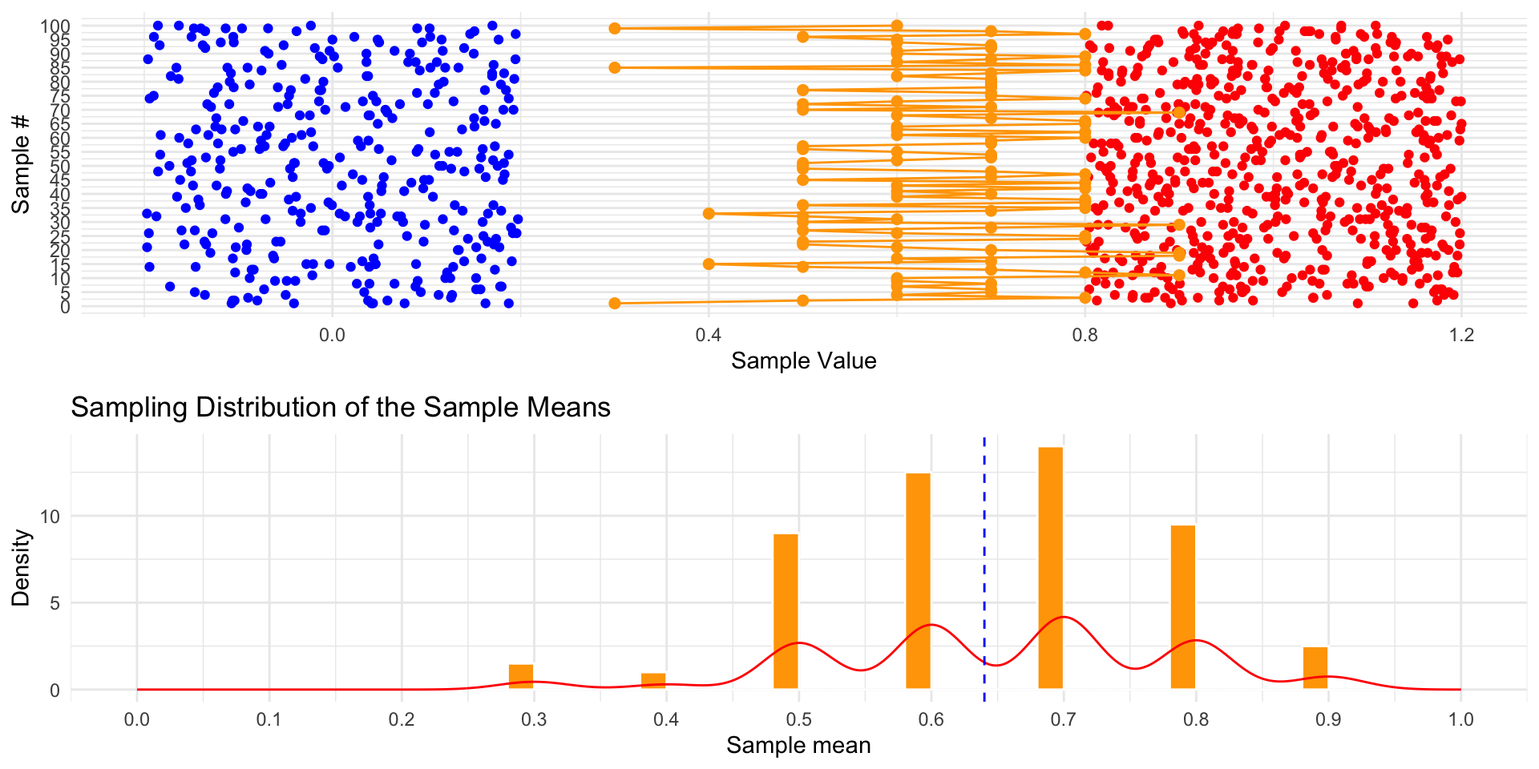
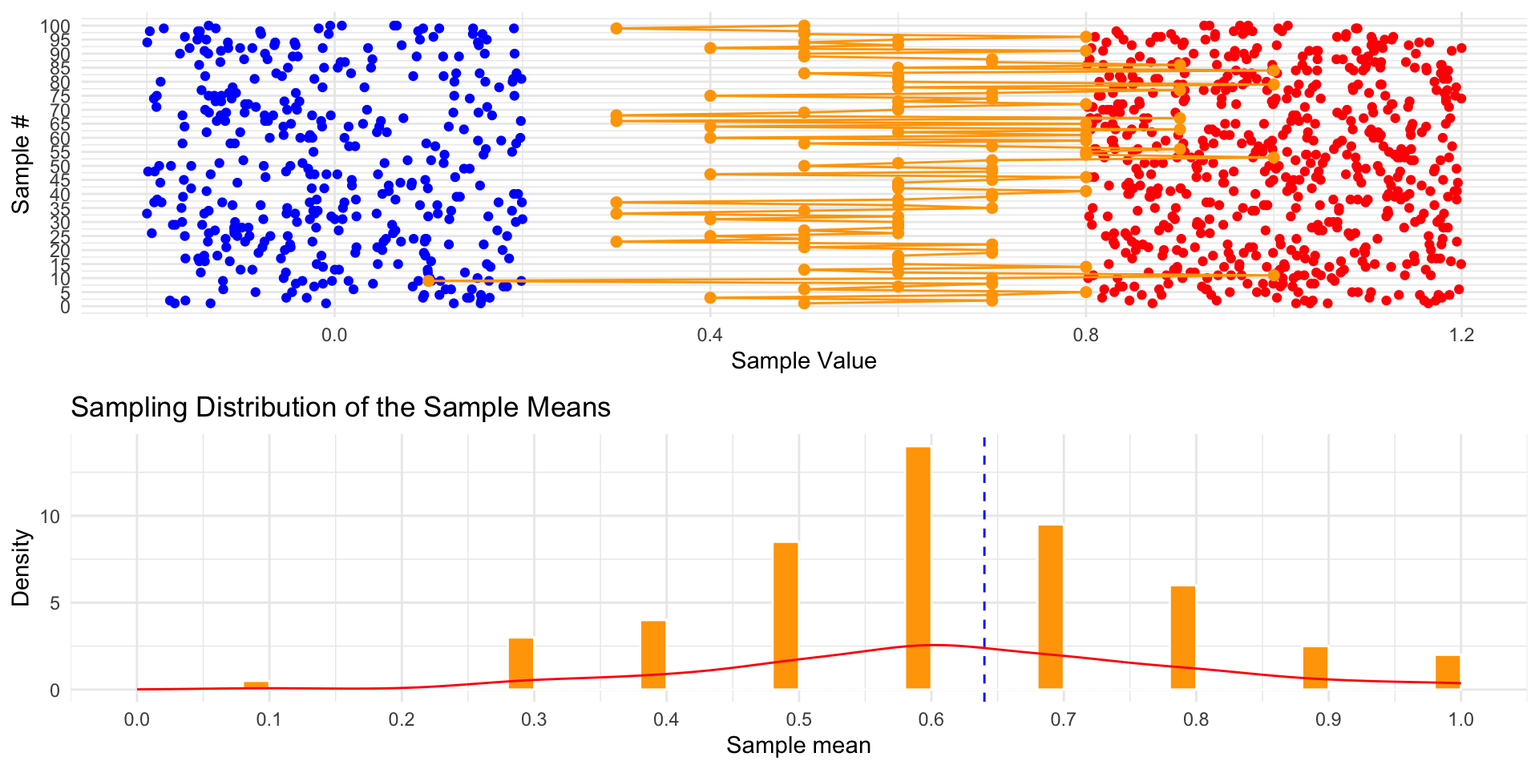
deploy: 5dc15942a45cb947c9da1f8479b1caabebc3e213

diff --git a/datasci-simplified/central-limit-theorem/index.html b/datasci-simplified/central-limit-theorem/index.html
@@ -98,8 +98,6 @@
   <link href="index_files/libs/revealjs/plugin/quarto-line-highlight/line-highlight.css" rel="stylesheet">
   <link href="index_files/libs/revealjs/plugin/reveal-menu/menu.css" rel="stylesheet">
   <link href="index_files/libs/revealjs/plugin/reveal-menu/quarto-menu.css" rel="stylesheet">
-  <link href="index_files/libs/revealjs/plugin/reveal-chalkboard/font-awesome/css/all.css" rel="stylesheet">
-  <link href="index_files/libs/revealjs/plugin/reveal-chalkboard/style.css" rel="stylesheet">
   <link href="index_files/libs/revealjs/plugin/quarto-support/footer.css" rel="stylesheet">
   <style type="text/css">
 
@@ -407,6 +405,10 @@
 <p>Imagine that you have a bag filled with <span style="color: red">red</span> and <span style="color: blue">blue</span> marbles.</p>
 <p>How would you guess the proportion of <span style="color: red">red</span> ones without going through every marble?</p>
 </section>
+<section id="central-limit-theorem" class="slide level2">
+<h2>Central Limit Theorem</h2>
+<p>As the sample size increases, typically when it’s greater than 30, the distribution of the sample means approaches a normal distribution.</p>
+</section>
 <section id="simulating-marble-population" class="slide level2">
 <h2>Simulating Marble Population</h2>
 <div class="cell">
@@ -421,7 +423,7 @@
 <span id="cb1-9"><a href="#cb1-9"></a>prob_red <span class="ot">=</span> <span class="fl">0.64</span></span>
 <span id="cb1-10"><a href="#cb1-10"></a>num_marbles <span class="ot">=</span> <span class="dv">1000</span></span>
 <span id="cb1-11"><a href="#cb1-11"></a></span>
-<span id="cb1-12"><a href="#cb1-12"></a><span class="fu">set.seed</span>(<span class="dv">42</span>) <span class="co"># reproducibility</span></span>
+<span id="cb1-12"><a href="#cb1-12"></a><span class="fu">set.seed</span>(<span class="dv">42</span>) </span>
 <span id="cb1-13"><a href="#cb1-13"></a>marbles <span class="ot">=</span> <span class="fu">sample</span>(<span class="fu">c</span>(red_marble, blue_marble), </span>
 <span id="cb1-14"><a href="#cb1-14"></a>                 <span class="at">size =</span> num_marbles, </span>
 <span id="cb1-15"><a href="#cb1-15"></a>                 <span class="at">replace =</span> <span class="cn">TRUE</span>, </span>
@@ -431,10 +433,11 @@
 <section id="taking-one-sample" class="slide level2">
 <h2>Taking One Sample</h2>
 <div class="cell">
-<div class="sourceCode cell-code" id="cb2"><pre class="sourceCode numberSource r number-lines code-with-copy"><code class="sourceCode r"><span id="cb2-1"><a href="#cb2-1"></a>one_sample <span class="ot">=</span> <span class="fu">get_samples</span>(marbles, <span class="at">sample_size =</span> <span class="dv">10</span>, <span class="at">number_of_samples =</span> <span class="dv">1</span>, <span class="at">func =</span> is_red)</span>
-<span id="cb2-2"><a href="#cb2-2"></a></span>
-<span id="cb2-3"><a href="#cb2-3"></a><span class="fu">kable</span>(one_sample, <span class="st">"html"</span>) <span class="sc">|&gt;</span></span>
-<span id="cb2-4"><a href="#cb2-4"></a>  <span class="fu">kable_styling</span>(<span class="at">font_size =</span> <span class="dv">20</span>)</span></code><button title="Copy to Clipboard" class="code-copy-button"><i class="bi"></i></button></pre></div>
+<div class="sourceCode cell-code" id="cb2"><pre class="sourceCode numberSource r number-lines code-with-copy"><code class="sourceCode r"><span id="cb2-1"><a href="#cb2-1"></a><span class="fu">set.seed</span>(<span class="dv">42</span>)</span>
+<span id="cb2-2"><a href="#cb2-2"></a>one_sample <span class="ot">=</span> <span class="fu">get_samples</span>(marbles, <span class="at">sample_size =</span> <span class="dv">10</span>, <span class="at">number_of_samples =</span> <span class="dv">1</span>, <span class="at">func =</span> is_red)</span>
+<span id="cb2-3"><a href="#cb2-3"></a></span>
+<span id="cb2-4"><a href="#cb2-4"></a><span class="fu">kable</span>(one_sample, <span class="st">"html"</span>) <span class="sc">|&gt;</span></span>
+<span id="cb2-5"><a href="#cb2-5"></a>  <span class="fu">kable_styling</span>(<span class="at">font_size =</span> <span class="dv">20</span>)</span></code><button title="Copy to Clipboard" class="code-copy-button"><i class="bi"></i></button></pre></div>
 <div class="cell-output-display">
 <table class="table" data-quarto-postprocess="true" style="font-size: 20px; margin-left: auto; margin-right: auto;">
 <thead>
@@ -446,6 +449,14 @@
 <tbody>
 <tr class="odd">
 <td style="text-align: right;">1</td>
+<td style="text-align: right;">0</td>
+</tr>
+<tr class="even">
+<td style="text-align: right;">1</td>
+<td style="text-align: right;">1</td>
+</tr>
+<tr class="odd">
+<td style="text-align: right;">1</td>
 <td style="text-align: right;">1</td>
 </tr>
 <tr class="even">
@@ -471,14 +482,6 @@
 <tr class="odd">
 <td style="text-align: right;">1</td>
 <td style="text-align: right;">0</td>
-</tr>
-<tr class="even">
-<td style="text-align: right;">1</td>
-<td style="text-align: right;">0</td>
-</tr>
-<tr class="odd">
-<td style="text-align: right;">1</td>
-<td style="text-align: right;">1</td>
 </tr>
 <tr class="even">
 <td style="text-align: right;">1</td>
@@ -506,14 +509,15 @@
 <div class="sourceCode cell-code" id="cb5"><pre class="sourceCode numberSource r number-lines code-with-copy"><code class="sourceCode r"><span id="cb5-1"><a href="#cb5-1"></a>size <span class="ot">=</span> <span class="dv">10</span></span>
 <span id="cb5-2"><a href="#cb5-2"></a>n <span class="ot">=</span> <span class="dv">100</span></span>
 <span id="cb5-3"><a href="#cb5-3"></a></span>
-<span id="cb5-4"><a href="#cb5-4"></a>samples <span class="ot">=</span> <span class="fu">get_samples</span>(marbles, <span class="at">sample_size =</span> size, <span class="at">number_of_samples =</span> n, <span class="at">func =</span> is_red)</span>
-<span id="cb5-5"><a href="#cb5-5"></a></span>
-<span id="cb5-6"><a href="#cb5-6"></a>sample_proportions <span class="ot">=</span> samples <span class="sc">|&gt;</span></span>
-<span id="cb5-7"><a href="#cb5-7"></a>  <span class="fu">group_by</span>(sample_number) <span class="sc">|&gt;</span></span>
-<span id="cb5-8"><a href="#cb5-8"></a>  <span class="fu">summarise</span>(<span class="at">proportion =</span> <span class="fu">mean</span>(sample_value))</span>
-<span id="cb5-9"><a href="#cb5-9"></a></span>
-<span id="cb5-10"><a href="#cb5-10"></a><span class="fu">kable</span>(<span class="fu">head</span>(sample_proportions, <span class="dv">5</span>), <span class="st">"html"</span>) <span class="sc">|&gt;</span></span>
-<span id="cb5-11"><a href="#cb5-11"></a>  <span class="fu">kable_styling</span>(<span class="at">font_size =</span> <span class="dv">20</span>)</span></code><button title="Copy to Clipboard" class="code-copy-button"><i class="bi"></i></button></pre></div>
+<span id="cb5-4"><a href="#cb5-4"></a><span class="fu">set.seed</span>(<span class="dv">42</span>)</span>
+<span id="cb5-5"><a href="#cb5-5"></a>samples <span class="ot">=</span> <span class="fu">get_samples</span>(marbles, <span class="at">sample_size =</span> size, <span class="at">number_of_samples =</span> n, <span class="at">func =</span> is_red)</span>
+<span id="cb5-6"><a href="#cb5-6"></a></span>
+<span id="cb5-7"><a href="#cb5-7"></a>sample_proportions <span class="ot">=</span> samples <span class="sc">|&gt;</span></span>
+<span id="cb5-8"><a href="#cb5-8"></a>  <span class="fu">group_by</span>(sample_number) <span class="sc">|&gt;</span></span>
+<span id="cb5-9"><a href="#cb5-9"></a>  <span class="fu">summarise</span>(<span class="at">proportion =</span> <span class="fu">mean</span>(sample_value))</span>
+<span id="cb5-10"><a href="#cb5-10"></a></span>
+<span id="cb5-11"><a href="#cb5-11"></a><span class="fu">kable</span>(<span class="fu">head</span>(sample_proportions, <span class="dv">5</span>), <span class="st">"html"</span>) <span class="sc">|&gt;</span></span>
+<span id="cb5-12"><a href="#cb5-12"></a>  <span class="fu">kable_styling</span>(<span class="at">font_size =</span> <span class="dv">20</span>)</span></code><button title="Copy to Clipboard" class="code-copy-button"><i class="bi"></i></button></pre></div>
 <div class="cell-output-display">
 <table class="table" data-quarto-postprocess="true" style="font-size: 20px; margin-left: auto; margin-right: auto;">
 <thead>
@@ -525,23 +529,23 @@
 <tbody>
 <tr class="odd">
 <td style="text-align: right;">1</td>
-<td style="text-align: right;">0.3</td>
+<td style="text-align: right;">0.5</td>
 </tr>
 <tr class="even">
 <td style="text-align: right;">2</td>
-<td style="text-align: right;">0.5</td>
+<td style="text-align: right;">0.7</td>
 </tr>
 <tr class="odd">
 <td style="text-align: right;">3</td>
-<td style="text-align: right;">0.8</td>
+<td style="text-align: right;">0.4</td>
 </tr>
 <tr class="even">
 <td style="text-align: right;">4</td>
-<td style="text-align: right;">0.6</td>
+<td style="text-align: right;">0.7</td>
 </tr>
 <tr class="odd">
 <td style="text-align: right;">5</td>
-<td style="text-align: right;">0.7</td>
+<td style="text-align: right;">0.8</td>
 </tr>
 </tbody>
 </table>
@@ -564,7 +568,7 @@
 <tbody>
 <tr class="odd">
 <td style="text-align: right;">10</td>
-<td style="text-align: right;">0.1337116</td>
+<td style="text-align: right;">0.174298</td>
 </tr>
 </tbody>
 </table>
@@ -586,17 +590,18 @@
 <h2>Increasing Sample Size to 20</h2>
 <div class="cell">
 <div class="sourceCode cell-code" id="cb8"><pre class="sourceCode numberSource r number-lines code-with-copy"><code class="sourceCode r"><span id="cb8-1"><a href="#cb8-1"></a>size <span class="ot">=</span> <span class="dv">20</span></span>
-<span id="cb8-2"><a href="#cb8-2"></a>samples <span class="ot">=</span> <span class="fu">get_samples</span>(marbles, <span class="at">sample_size =</span> size, <span class="at">number_of_samples =</span> n, <span class="at">func =</span> is_red)</span>
-<span id="cb8-3"><a href="#cb8-3"></a></span>
-<span id="cb8-4"><a href="#cb8-4"></a>sample_proportions <span class="ot">=</span> samples <span class="sc">|&gt;</span></span>
-<span id="cb8-5"><a href="#cb8-5"></a>  <span class="fu">group_by</span>(sample_number) <span class="sc">|&gt;</span></span>
-<span id="cb8-6"><a href="#cb8-6"></a>  <span class="fu">summarise</span>(<span class="at">proportion =</span> <span class="fu">mean</span>(sample_value))</span>
-<span id="cb8-7"><a href="#cb8-7"></a></span>
-<span id="cb8-8"><a href="#cb8-8"></a>standard_errors <span class="ot">=</span> standard_errors <span class="sc">|&gt;</span></span>
-<span id="cb8-9"><a href="#cb8-9"></a>  <span class="fu">add_row</span>(<span class="at">sample_size =</span> size, </span>
-<span id="cb8-10"><a href="#cb8-10"></a>          <span class="at">standard_error =</span> <span class="fu">sd</span>(sample_proportions<span class="sc">$</span>proportion))</span>
-<span id="cb8-11"><a href="#cb8-11"></a></span>
-<span id="cb8-12"><a href="#cb8-12"></a><span class="fu">kable</span>(standard_errors)</span></code><button title="Copy to Clipboard" class="code-copy-button"><i class="bi"></i></button></pre></div>
+<span id="cb8-2"><a href="#cb8-2"></a><span class="fu">set.seed</span>(<span class="dv">42</span>)</span>
+<span id="cb8-3"><a href="#cb8-3"></a>samples <span class="ot">=</span> <span class="fu">get_samples</span>(marbles, <span class="at">sample_size =</span> size, <span class="at">number_of_samples =</span> n, <span class="at">func =</span> is_red)</span>
+<span id="cb8-4"><a href="#cb8-4"></a></span>
+<span id="cb8-5"><a href="#cb8-5"></a>sample_proportions <span class="ot">=</span> samples <span class="sc">|&gt;</span></span>
+<span id="cb8-6"><a href="#cb8-6"></a>  <span class="fu">group_by</span>(sample_number) <span class="sc">|&gt;</span></span>
+<span id="cb8-7"><a href="#cb8-7"></a>  <span class="fu">summarise</span>(<span class="at">proportion =</span> <span class="fu">mean</span>(sample_value))</span>
+<span id="cb8-8"><a href="#cb8-8"></a></span>
+<span id="cb8-9"><a href="#cb8-9"></a>standard_errors <span class="ot">=</span> standard_errors <span class="sc">|&gt;</span></span>
+<span id="cb8-10"><a href="#cb8-10"></a>  <span class="fu">add_row</span>(<span class="at">sample_size =</span> size, </span>
+<span id="cb8-11"><a href="#cb8-11"></a>          <span class="at">standard_error =</span> <span class="fu">sd</span>(sample_proportions<span class="sc">$</span>proportion))</span>
+<span id="cb8-12"><a href="#cb8-12"></a></span>
+<span id="cb8-13"><a href="#cb8-13"></a><span class="fu">kable</span>(standard_errors)</span></code><button title="Copy to Clipboard" class="code-copy-button"><i class="bi"></i></button></pre></div>
 <div class="cell-output-display">
 <table data-quarto-postprocess="true">
 <thead>
@@ -608,11 +613,11 @@
 <tbody>
 <tr class="odd">
 <td style="text-align: right;">10</td>
-<td style="text-align: right;">0.1337116</td>
+<td style="text-align: right;">0.1742980</td>
 </tr>
 <tr class="even">
 <td style="text-align: right;">20</td>
-<td style="text-align: right;">0.1056713</td>
+<td style="text-align: right;">0.1035665</td>
 </tr>
 </tbody>
 </table>
@@ -625,7 +630,7 @@
 <h2>Increasing Sample Size to 20</h2>
 <div class="cell">
 <div class="sourceCode cell-code" id="cb9"><pre class="sourceCode numberSource r number-lines code-with-copy"><code class="sourceCode r"><span id="cb9-1"><a href="#cb9-1"></a>p20 <span class="ot">=</span> <span class="fu">plot_sample_means</span>(samples, size, prob_red)</span>
-<span id="cb9-2"><a href="#cb9-2"></a><span class="fu">grid.arrange</span>(p10, p20)</span></code><button title="Copy to Clipboard" class="code-copy-button"><i class="bi"></i></button></pre></div>
+<span id="cb9-2"><a href="#cb9-2"></a><span class="fu">grid.arrange</span>(p10, p20, <span class="at">ncol=</span><span class="dv">2</span>)</span></code><button title="Copy to Clipboard" class="code-copy-button"><i class="bi"></i></button></pre></div>
 
 </div>
 <img data-src="index_files/figure-revealjs/unnamed-chunk-11-1.png" width="960" class="r-stretch"></section>
@@ -633,7 +638,7 @@
 <h2>Increasing Sample Size to 50</h2>
 <div class="cell">
 <div class="sourceCode cell-code" id="cb10"><pre class="sourceCode numberSource r number-lines code-with-copy"><code class="sourceCode r"><span id="cb10-1"><a href="#cb10-1"></a>size <span class="ot">=</span> <span class="dv">50</span></span>
-<span id="cb10-2"><a href="#cb10-2"></a></span>
+<span id="cb10-2"><a href="#cb10-2"></a><span class="fu">set.seed</span>(<span class="dv">42</span>)</span>
 <span id="cb10-3"><a href="#cb10-3"></a>samples <span class="ot">=</span> <span class="fu">get_samples</span>(marbles, <span class="at">sample_size =</span> size, <span class="at">number_of_samples =</span> n, <span class="at">func =</span> is_red)</span>
 <span id="cb10-4"><a href="#cb10-4"></a></span>
 <span id="cb10-5"><a href="#cb10-5"></a>sample_proportions <span class="ot">=</span> samples <span class="sc">|&gt;</span></span>
@@ -656,15 +661,15 @@
 <tbody>
 <tr class="odd">
 <td style="text-align: right;">10</td>
-<td style="text-align: right;">0.1337116</td>
+<td style="text-align: right;">0.1742980</td>
 </tr>
 <tr class="even">
 <td style="text-align: right;">20</td>
-<td style="text-align: right;">0.1056713</td>
+<td style="text-align: right;">0.1035665</td>
 </tr>
 <tr class="odd">
 <td style="text-align: right;">50</td>
-<td style="text-align: right;">0.0724464</td>
+<td style="text-align: right;">0.0669916</td>
 </tr>
 </tbody>
 </table>
@@ -677,7 +682,7 @@
 <h2>Increasing Sample Size to 50</h2>
 <div class="cell">
 <div class="sourceCode cell-code" id="cb11"><pre class="sourceCode numberSource r number-lines code-with-copy"><code class="sourceCode r"><span id="cb11-1"><a href="#cb11-1"></a>p50 <span class="ot">=</span> <span class="fu">plot_sample_means</span>(samples, size, prob_red)</span>
-<span id="cb11-2"><a href="#cb11-2"></a><span class="fu">grid.arrange</span>(p10, p20, p50)</span></code><button title="Copy to Clipboard" class="code-copy-button"><i class="bi"></i></button></pre></div>
+<span id="cb11-2"><a href="#cb11-2"></a><span class="fu">grid.arrange</span>(p10, p20, p50, <span class="at">ncol=</span><span class="dv">2</span>)</span></code><button title="Copy to Clipboard" class="code-copy-button"><i class="bi"></i></button></pre></div>
 
 </div>
 <img data-src="index_files/figure-revealjs/unnamed-chunk-14-1.png" width="960" class="r-stretch"></section>
@@ -685,17 +690,18 @@
 <h2>Increasing Sample Size to 100</h2>
 <div class="cell">
 <div class="sourceCode cell-code" id="cb12"><pre class="sourceCode numberSource r number-lines code-with-copy"><code class="sourceCode r"><span id="cb12-1"><a href="#cb12-1"></a>size <span class="ot">=</span> <span class="dv">100</span></span>
-<span id="cb12-2"><a href="#cb12-2"></a>samples <span class="ot">=</span> <span class="fu">get_samples</span>(marbles, <span class="at">sample_size =</span> size, <span class="at">number_of_samples =</span> n, <span class="at">func =</span> is_red)</span>
-<span id="cb12-3"><a href="#cb12-3"></a></span>
-<span id="cb12-4"><a href="#cb12-4"></a>sample_proportions <span class="ot">=</span> samples <span class="sc">|&gt;</span></span>
-<span id="cb12-5"><a href="#cb12-5"></a>  <span class="fu">group_by</span>(sample_number) <span class="sc">|&gt;</span></span>
-<span id="cb12-6"><a href="#cb12-6"></a>  <span class="fu">summarise</span>(<span class="at">proportion =</span> <span class="fu">mean</span>(sample_value))</span>
-<span id="cb12-7"><a href="#cb12-7"></a></span>
-<span id="cb12-8"><a href="#cb12-8"></a>standard_errors <span class="ot">=</span> standard_errors <span class="sc">|&gt;</span></span>
-<span id="cb12-9"><a href="#cb12-9"></a>  <span class="fu">add_row</span>(<span class="at">sample_size =</span> size, </span>
-<span id="cb12-10"><a href="#cb12-10"></a>          <span class="at">standard_error =</span> <span class="fu">sd</span>(sample_proportions<span class="sc">$</span>proportion))</span>
-<span id="cb12-11"><a href="#cb12-11"></a></span>
-<span id="cb12-12"><a href="#cb12-12"></a><span class="fu">kable</span>(standard_errors, <span class="st">"html"</span>)</span></code><button title="Copy to Clipboard" class="code-copy-button"><i class="bi"></i></button></pre></div>
+<span id="cb12-2"><a href="#cb12-2"></a><span class="fu">set.seed</span>(<span class="dv">42</span>)</span>
+<span id="cb12-3"><a href="#cb12-3"></a>samples <span class="ot">=</span> <span class="fu">get_samples</span>(marbles, <span class="at">sample_size =</span> size, <span class="at">number_of_samples =</span> n, <span class="at">func =</span> is_red)</span>
+<span id="cb12-4"><a href="#cb12-4"></a></span>
+<span id="cb12-5"><a href="#cb12-5"></a>sample_proportions <span class="ot">=</span> samples <span class="sc">|&gt;</span></span>
+<span id="cb12-6"><a href="#cb12-6"></a>  <span class="fu">group_by</span>(sample_number) <span class="sc">|&gt;</span></span>
+<span id="cb12-7"><a href="#cb12-7"></a>  <span class="fu">summarise</span>(<span class="at">proportion =</span> <span class="fu">mean</span>(sample_value))</span>
+<span id="cb12-8"><a href="#cb12-8"></a></span>
+<span id="cb12-9"><a href="#cb12-9"></a>standard_errors <span class="ot">=</span> standard_errors <span class="sc">|&gt;</span></span>
+<span id="cb12-10"><a href="#cb12-10"></a>  <span class="fu">add_row</span>(<span class="at">sample_size =</span> size, </span>
+<span id="cb12-11"><a href="#cb12-11"></a>          <span class="at">standard_error =</span> <span class="fu">sd</span>(sample_proportions<span class="sc">$</span>proportion))</span>
+<span id="cb12-12"><a href="#cb12-12"></a></span>
+<span id="cb12-13"><a href="#cb12-13"></a><span class="fu">kable</span>(standard_errors, <span class="st">"html"</span>)</span></code><button title="Copy to Clipboard" class="code-copy-button"><i class="bi"></i></button></pre></div>
 <div class="cell-output-display">
 <table data-quarto-postprocess="true">
 <thead>
@@ -707,19 +713,19 @@
 <tbody>
 <tr class="odd">
 <td style="text-align: right;">10</td>
-<td style="text-align: right;">0.1337116</td>
+<td style="text-align: right;">0.1742980</td>
 </tr>
 <tr class="even">
 <td style="text-align: right;">20</td>
-<td style="text-align: right;">0.1056713</td>
+<td style="text-align: right;">0.1035665</td>
 </tr>
 <tr class="odd">
 <td style="text-align: right;">50</td>
-<td style="text-align: right;">0.0724464</td>
+<td style="text-align: right;">0.0669916</td>
 </tr>
 <tr class="even">
 <td style="text-align: right;">100</td>
-<td style="text-align: right;">0.0433026</td>
+<td style="text-align: right;">0.0494720</td>
 </tr>
 </tbody>
 </table>
@@ -732,16 +738,12 @@
 <h2>Increasing Sample Size to 100</h2>
 <div class="cell">
 <div class="sourceCode cell-code" id="cb13"><pre class="sourceCode numberSource r number-lines code-with-copy"><code class="sourceCode r"><span id="cb13-1"><a href="#cb13-1"></a>p100 <span class="ot">=</span> <span class="fu">plot_sample_means</span>(samples, size, prob_red)</span>
-<span id="cb13-2"><a href="#cb13-2"></a><span class="fu">grid.arrange</span>(p10, p20, p50, p100, <span class="at">ncol=</span><span class="dv">1</span>)</span></code><button title="Copy to Clipboard" class="code-copy-button"><i class="bi"></i></button></pre></div>
+<span id="cb13-2"><a href="#cb13-2"></a><span class="fu">grid.arrange</span>(p10, p20, p50, p100, <span class="at">ncol=</span><span class="dv">2</span>)</span></code><button title="Copy to Clipboard" class="code-copy-button"><i class="bi"></i></button></pre></div>
 
 </div>
 <img data-src="index_files/figure-revealjs/unnamed-chunk-17-1.png" width="960" class="r-stretch"></section>
-<section id="unravel-the-magic---clt" class="slide level2">
-<h2>Unravel the Magic - CLT</h2>
-<p>As the sample size increases, typically when n &gt; 30, the distribution of the sample means approaches a normal distribution.</p>
-</section>
-<section id="real-world-data" class="slide level2">
-<h2>Real-world Data</h2>
+<section id="skewed-data" class="slide level2">
+<h2>Skewed Data</h2>
 <div class="cell">
 <div class="sourceCode cell-code" id="cb14"><pre class="sourceCode numberSource r number-lines code-with-copy"><code class="sourceCode r"><span id="cb14-1"><a href="#cb14-1"></a><span class="fu">set.seed</span>(<span class="dv">42</span>)</span>
 <span id="cb14-2"><a href="#cb14-2"></a></span>
@@ -760,8 +762,8 @@
 
 </div>
 <img data-src="index_files/figure-revealjs/unnamed-chunk-18-1.png" width="960" class="r-stretch"></section>
-<section id="real-world-data-1" class="slide level2">
-<h2>Real-world Data</h2>
+<section id="skewed-data-1" class="slide level2">
+<h2>Skewed Data</h2>
 <div class="cell">
 <div class="sourceCode cell-code" id="cb15"><pre class="sourceCode numberSource r number-lines code-with-copy"><code class="sourceCode r"><span id="cb15-1"><a href="#cb15-1"></a>samples <span class="ot">=</span> <span class="fu">get_samples</span>(salaries, <span class="at">sample_size =</span> <span class="dv">100</span>, <span class="at">number_of_samples =</span> <span class="dv">100</span>)</span>
 <span id="cb15-2"><a href="#cb15-2"></a><span class="fu">plot_samples_and_averages</span>(samples, <span class="fu">mean</span>(salaries))</span></code><button title="Copy to Clipboard" class="code-copy-button"><i class="bi"></i></button></pre></div>
@@ -777,6 +779,24 @@
 <li>Distribution of sample means becomes more normal as size increases</li>
 <li>Works for any population distribution</li>
 </ul>
+</section>
+<section id="red-marble-proportion-estimation" class="slide level2">
+<h2>Red Marble Proportion Estimation</h2>
+<div class="cell">
+<div class="sourceCode cell-code" id="cb16"><pre class="sourceCode numberSource r number-lines code-with-copy"><code class="sourceCode r"><span id="cb16-1"><a href="#cb16-1"></a><span class="fu">set.seed</span>(<span class="dv">42</span>)</span>
+<span id="cb16-2"><a href="#cb16-2"></a>one_sample <span class="ot">=</span> <span class="fu">sample</span>(marbles, <span class="dv">100</span>)</span>
+<span id="cb16-3"><a href="#cb16-3"></a><span class="fu">print</span>(<span class="fu">str_glue</span>(<span class="st">"Percentage of red marbles: {mean(one_sample == red_marble) * 100}%"</span>))</span></code><button title="Copy to Clipboard" class="code-copy-button"><i class="bi"></i></button></pre></div>
+<div class="cell-output cell-output-stdout">
+<pre><code>Percentage of red marbles: 60%</code></pre>
+</div>
+</div>
+</section>
+<section id="question" class="slide level2">
+<h2>Question</h2>
+<ul>
+<li>How confident are we in the estimation?</li>
+<li>How can we quantify our level of certainty?</li>
+</ul>
 <div class="footer footer-default">
 
 </div>
@@ -791,7 +811,6 @@
   <script src="index_files/libs/revealjs/plugin/pdf-export/pdfexport.js"></script>
   <script src="index_files/libs/revealjs/plugin/reveal-menu/menu.js"></script>
   <script src="index_files/libs/revealjs/plugin/reveal-menu/quarto-menu.js"></script>
-  <script src="index_files/libs/revealjs/plugin/reveal-chalkboard/plugin.js"></script>
   <script src="index_files/libs/revealjs/plugin/quarto-support/support.js"></script>
   
 
@@ -813,8 +832,7 @@
 'autoAnimateEasing': "ease",
 'autoAnimateDuration': 1,
 'autoAnimateUnmatched': true,
-'menu': {"side":"left","useTextContentForMissingTitles":true,"markers":false,"loadIcons":false,"custom":[{"title":"Tools","icon":"<i class=\"fas fa-gear\"></i>","content":"<ul class=\"slide-menu-items\">\n<li class=\"slide-tool-item active\" data-item=\"0\"><a href=\"#\" onclick=\"RevealMenuToolHandlers.fullscreen(event)\"><kbd>f</kbd> Fullscreen</a></li>\n<li class=\"slide-tool-item\" data-item=\"1\"><a href=\"#\" onclick=\"RevealMenuToolHandlers.speakerMode(event)\"><kbd>s</kbd> Speaker View</a></li>\n<li class=\"slide-tool-item\" data-item=\"2\"><a href=\"#\" onclick=\"RevealMenuToolHandlers.overview(event)\"><kbd>o</kbd> Slide Overview</a></li>\n<li class=\"slide-tool-item\" data-item=\"3\"><a href=\"#\" onclick=\"RevealMenuToolHandlers.togglePdfExport(event)\"><kbd>e</kbd> PDF Export Mode</a></li>\n<li class=\"slide-tool-item\" data-item=\"4\"><a href=\"#\" onclick=\"RevealMenuToolHandlers.toggleChalkboard(event)\"><kbd>b</kbd> Toggle Chalkboard</a></li>\n<li class=\"slide-tool-item\" data-item=\"5\"><a href=\"#\" onclick=\"RevealMenuToolHandlers.toggleNotesCanvas(event)\"><kbd>c</kbd> Toggle Notes Canvas</a></li>\n<li class=\"slide-tool-item\" data-item=\"6\"><a href=\"#\" onclick=\"RevealMenuToolHandlers.downloadDrawings(event)\"><kbd>d</kbd> Download Drawings</a></li>\n<li class=\"slide-tool-item\" data-item=\"7\"><a href=\"#\" onclick=\"RevealMenuToolHandlers.keyboardHelp(event)\"><kbd>?</kbd> Keyboard Help</a></li>\n</ul>"}],"openButton":true},
-'chalkboard': {"buttons":true},
+'menu': {"side":"left","useTextContentForMissingTitles":true,"markers":false,"loadIcons":false,"custom":[{"title":"Tools","icon":"<i class=\"fas fa-gear\"></i>","content":"<ul class=\"slide-menu-items\">\n<li class=\"slide-tool-item active\" data-item=\"0\"><a href=\"#\" onclick=\"RevealMenuToolHandlers.fullscreen(event)\"><kbd>f</kbd> Fullscreen</a></li>\n<li class=\"slide-tool-item\" data-item=\"1\"><a href=\"#\" onclick=\"RevealMenuToolHandlers.speakerMode(event)\"><kbd>s</kbd> Speaker View</a></li>\n<li class=\"slide-tool-item\" data-item=\"2\"><a href=\"#\" onclick=\"RevealMenuToolHandlers.overview(event)\"><kbd>o</kbd> Slide Overview</a></li>\n<li class=\"slide-tool-item\" data-item=\"3\"><a href=\"#\" onclick=\"RevealMenuToolHandlers.togglePdfExport(event)\"><kbd>e</kbd> PDF Export Mode</a></li>\n<li class=\"slide-tool-item\" data-item=\"4\"><a href=\"#\" onclick=\"RevealMenuToolHandlers.keyboardHelp(event)\"><kbd>?</kbd> Keyboard Help</a></li>\n</ul>"}],"openButton":true},
 'smaller': true,
  
         // Display controls in the bottom right corner
@@ -985,7 +1003,7 @@
         },
 
         // reveal.js plugins
-        plugins: [QuartoLineHighlight, PdfExport, RevealMenu, RevealChalkboard, QuartoSupport,
+        plugins: [QuartoLineHighlight, PdfExport, RevealMenu, QuartoSupport,
 
           RevealMath,
           RevealNotes,
